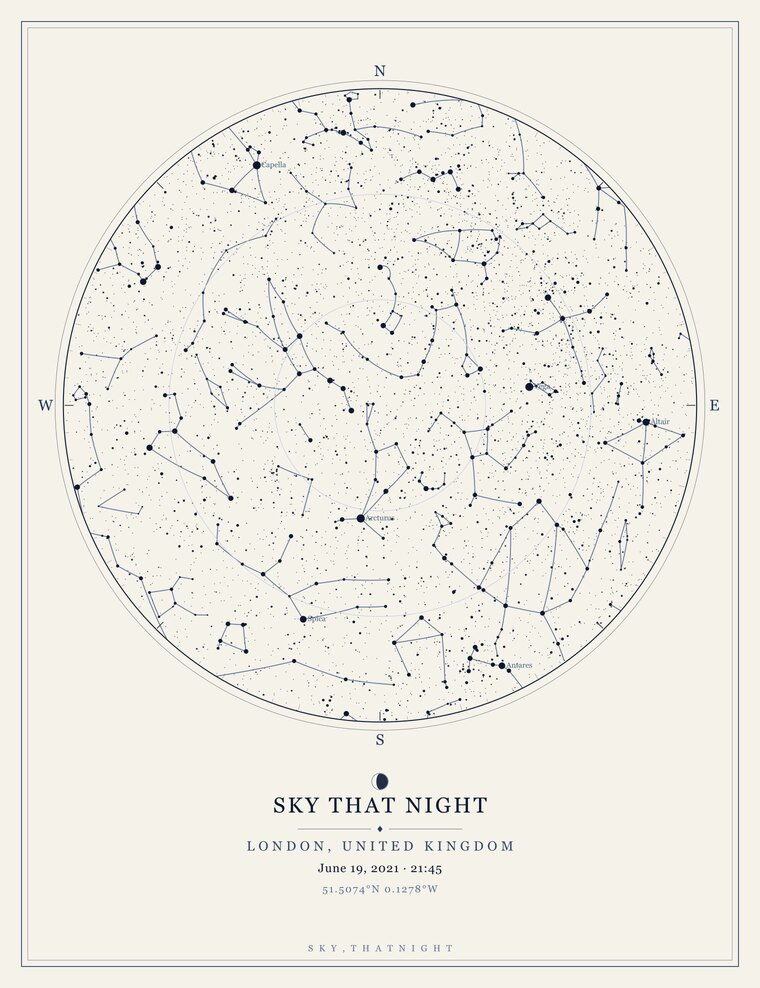
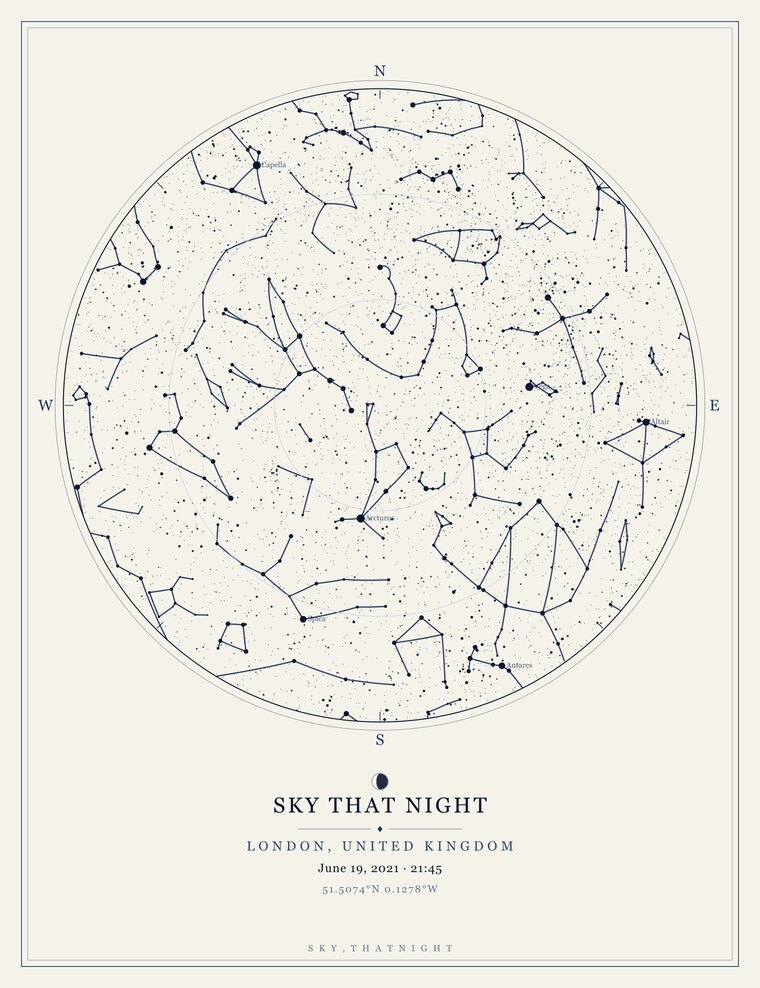
Porcelain theme: bolder constellation lines (darker #22385e, opacity 0.92, ~2.3x width) so real posters match the film close-up; regen hero + film porcelain shots; cache-bust JS v8

diff --git a/assets/starmap.js b/assets/starmap.js
@@ -59,8 +59,8 @@ const THEMES = {
               star:'#ffffff', ring:'#c3ccd8', grid:'#20345f', lines:'#4f6fa8', lineOp:0.34,
               accent:'#c3ccd8', lineW:0.7, label:'Luxe · Silver' },
   porcelain:{ page:'#f5f2ea', sky:'#f5f2ea', ink:'#0d1830', sub:'#33496e', faint:'#5f7396',
-              star:'#0d1830', ring:'#0f1b33', grid:'#ccd3e0', lines:'#31497c', lineOp:0.75,
-              accent:'#243a63', lineW:1.2, dotScale:1.8, opMin:0.78, opBase:0.68, label:'Porcelain' },
+              star:'#0d1830', ring:'#0f1b33', grid:'#ccd3e0', lines:'#22385e', lineOp:0.92,
+              accent:'#243a63', lineW:2.1, dotScale:1.8, opMin:0.78, opBase:0.68, label:'Porcelain' },
   noir:     { page:'#060608', sky:'#060608', ink:'#e8dcc0', sub:'#c9a961', faint:'#8a7845',
               star:'#f5efe0', ring:'#c9a961', grid:'#1d1a12', lines:'#8a7845', lineOp:0.32,
               accent:'#c9a961', lineW:0.7, label:'Noir' },

diff --git a/index.html b/index.html
@@ -431,6 +431,6 @@ document.addEventListener('DOMContentLoaded', function () {
   io.observe(v);
 });
 </script>
-<script src="assets/starmap.js?v=7" defer></script>
+<script src="assets/starmap.js?v=8" defer></script>
 </body>
 </html>